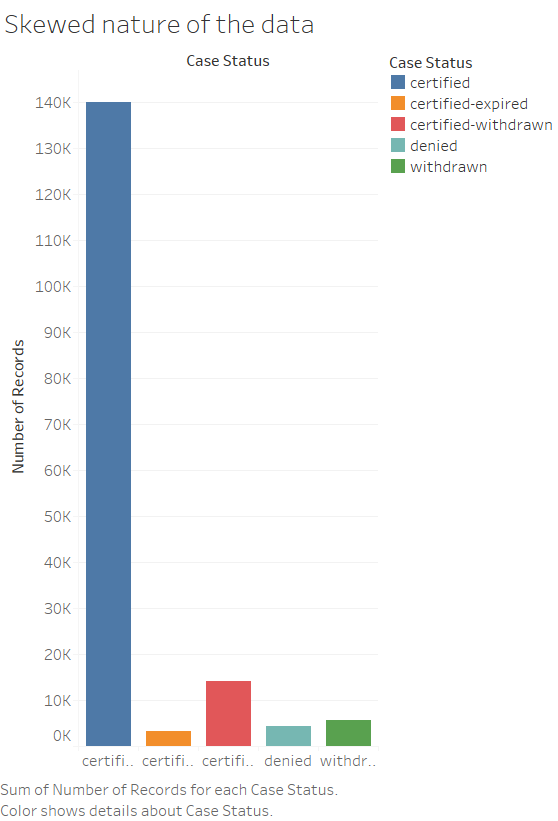
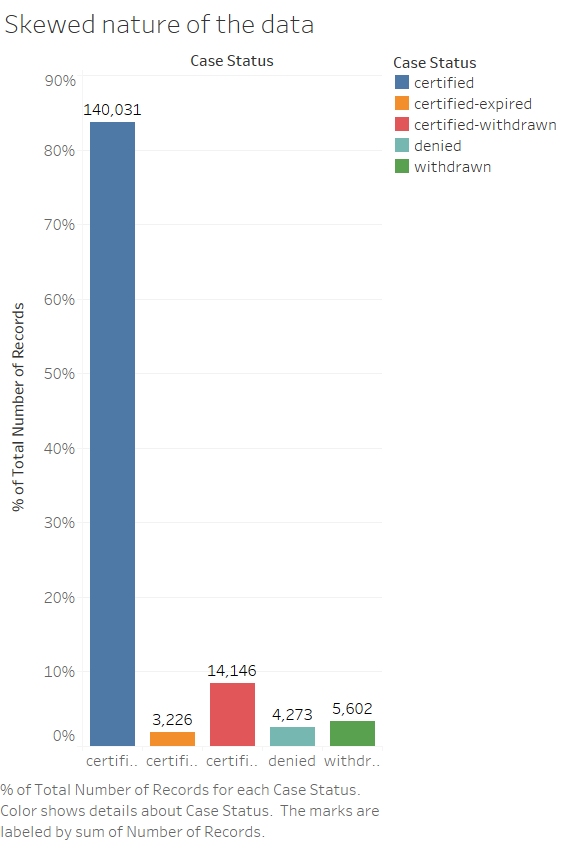
RDM update, Skewed - percentages, tnb update

diff --git a/README.md b/README.md
@@ -1,2 +1,61 @@
 # US-VISA-Data-Analysis
-Analyzing the different parameters that make a successful US-VISA Application.
+
+# Intention
+This mini project is dedicated to proposing an [organized way](https://www.coursera.org/learn/analytics-tableau) of working though a Data Science. In my experience the only stand alone reason for the cloud around the definition of Data Science is actually the absence of a defined paradigm for solving the Data Science problem.<br>
+
+ > For me Data Science is an art of first being passionate about your problem, understanding the problem statement, collecting the relevant data and analyze it to solve the problem at hand.
+
+ I think this is pretty much I try to do with each one of my data science project. Let me try to break down my definition of data science. <br>
+
+ 1. Being passionate about your problem - This allows you to put in the required amount of mental resources to actually think about the problem and formulate a problem statement. i.e a Specific, Measurable, Attainable, Relevant, Time bound (SMART goal). For instance, if you aspire to come to USA to have a taste of real innovation, you might wonder about the most successful route of getting your VISA approved.
+ 2. After you are down with your problem statement, you should have a dependent variable, the variable you want to make conclusions about. Here it is Case Status.
+ 3. Followed by this you might want to think about the independent variables, the variables that would affect this dependent variable.
+ 4. Further you can go ahead and think about the ways (or specific visualizations) you can make to be clear about the relation ships about your IVs and DV.
+ 5. Next you can create these visualizations. (using any tool - Tableau or matplotlib)
+ 6. Finally now when you are clear about your final list of IVs and their relationship with the DV, you can go ahead and model the problem with any of the machine learning algorithms.
+
+ The most important point - Since this is just a paradigm, it takes a lot of practice to master the skill. So be patient and be curious. <br>
+ Be sure to have all the information in a mind map (SPAP). So that you can re iterate over it and continuously evolve it.
+
+## Introduction
+When a US company wants to hire someone from outside of the United States for a technical
+position, they have to file an application to the United States government to get a green card or visa
+for the foreign applicant. These applications allow the US government to track who is entering and
+leaving the country for work-related reasons, and ensure that immigrants are neither being taken
+advantage of nor causing adverse effects for U.S. workers. To ensure equity for US and non-US
+workers, companies have to state how much they are planning on paying the employee every time
+they submit a visa or green card application. They also have to state the average amount an
+employee with similar skills and background typically gets paid for the same position, a figure
+called “the prevailing wage.” This publically available data provides a unique view into what types
+of salaries you might encounter for different data–related jobs in the US.<br>
+
+*Skewed nature of the data* - please click [here](https://github.com/gauscian/US-VISA-Data-Analysis/blob/master/Skewed-data-wrt-case-status.png)<br>
+This skewed nature makes the predictive modelling around case status impractical.
+
+
+
+## Source
+The original data was compiled by the [US Department of Labor’s Office of Foreign Labor
+Certification](http://www.foreignlaborcert.doleta.gov/performancedata.cfm).
+
+## Analysis
+
+### SPAP - (Structured Analysis Plan)
+[Here](https://github.com/gauscian/US-VISA-Data-Analysis/blob/master/What%20maximizes%20the%20chances%20of%20a%20US%20-%20VISA%20being%20Certified%20%20.png) is the SPAP for the above problem. This plan was prepared after a brief look into the data and imbibing the overall intuition of the data.
+#### Description of the SPAP :
+    1.  Layer 1 : SMART GOAL of the analysis. Since the data I analyze is particularly skewed with respect to the Case Status field I only use the SMART goal for thinking about the possible Independent variables.
+    2.  Layer 2 : Dependent variable (Case status in our case).
+    3.  Layer 3 : Independent varibles hypothesized to be associated with the Case Status variable.
+    4.  Layer 4 : Describes the plan for the vizualizations to be created.
+    5.  Layer 5 : Is the reference to the conclusions drawn as mentioned in this mini report.
+
+
+### My Analysis of the data set.
+
+List or related resources.
+1. The Tableau dashboard -
+2. [SPAP]((https://github.com/gauscian/US-VISA-Data-Analysis/blob/master/What%20maximizes%20the%20chances%20of%20a%20US%20-%20VISA%20being%20Certified%20%20.png))
+
+The last layer of the SPAP defines the numbers I use here to conclude on my findings about the respective Independent variables.<br>
+
+
